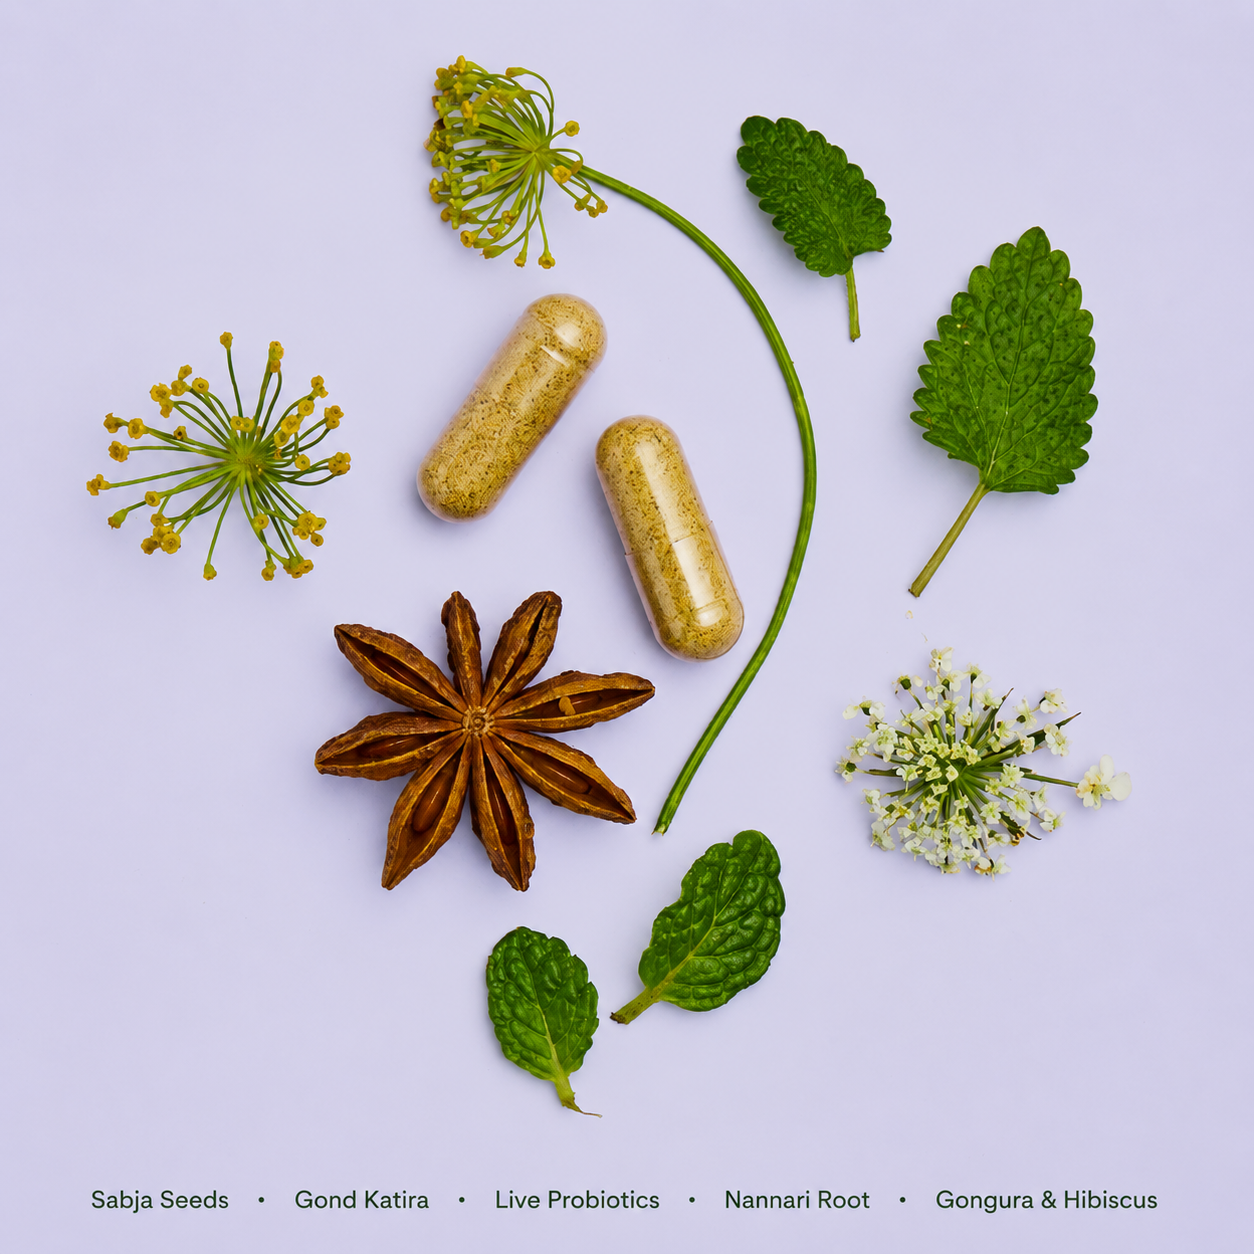
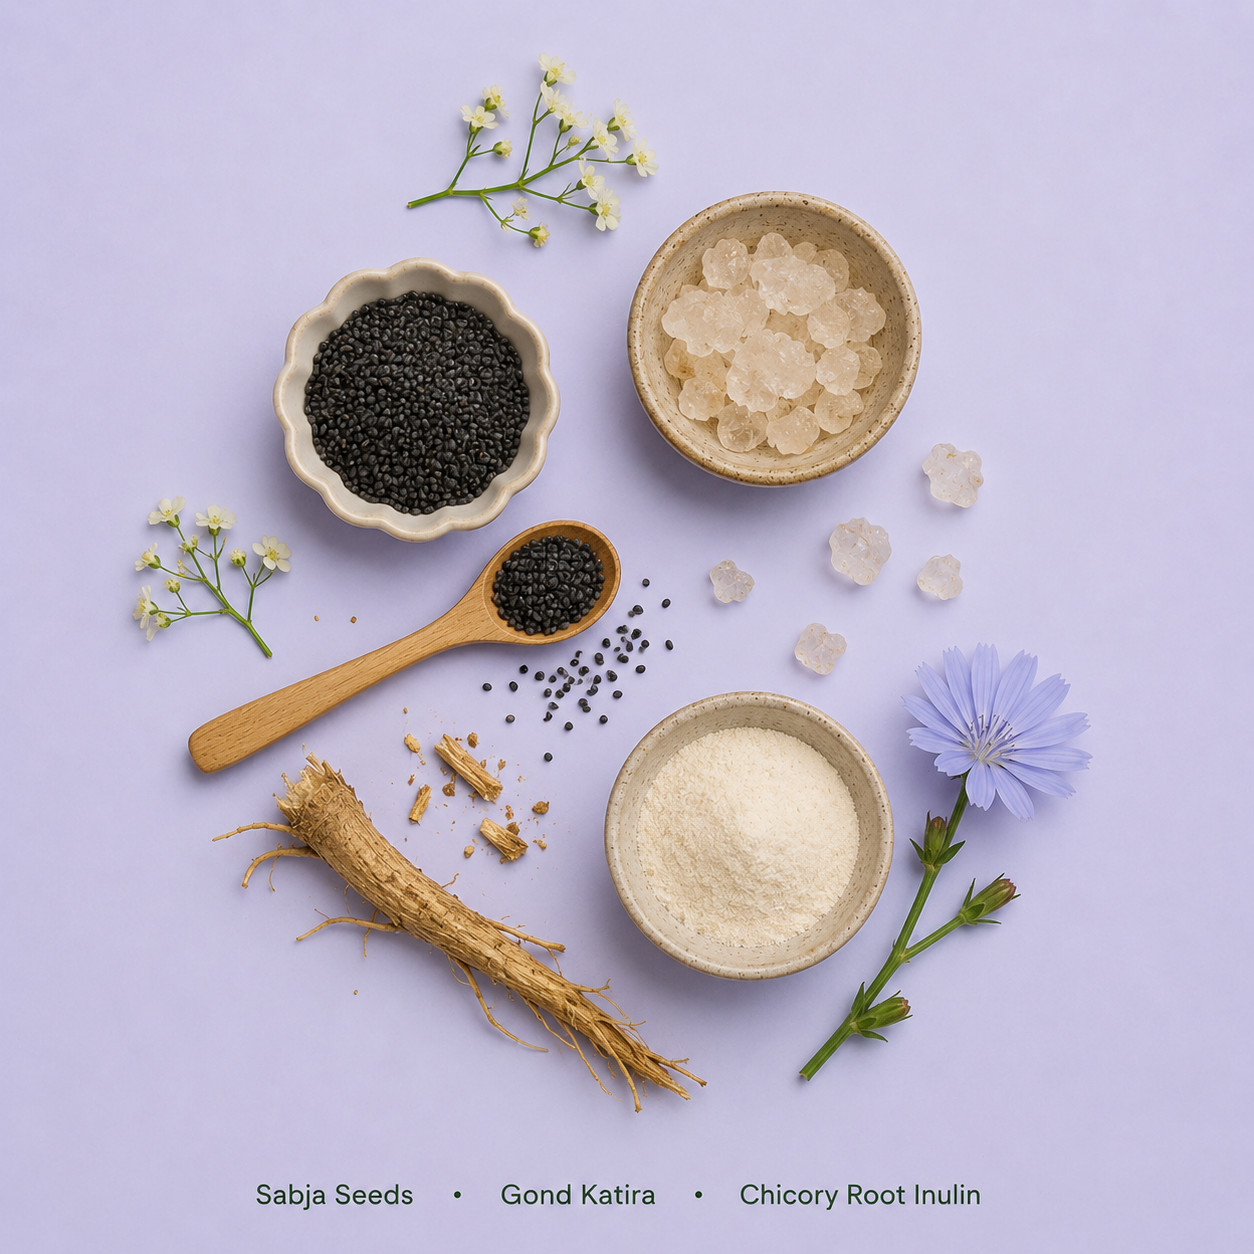
Changed hero section

diff --git a/src/components/HeroSection.tsx b/src/components/HeroSection.tsx
@@ -1,5 +1,5 @@
 import { Link } from "react-router-dom";
-import heroBottle from "@/assets/hero-bottle.png";
+import newHeroImage from "@/assets/new-hero-image.png";
 
 const HeroSection = () => (
   <section className="hero-section">
@@ -35,24 +35,10 @@ const HeroSection = () => (
           </div>
         </div>
 
-        {/* ─── RIGHT: Blob + Bottle ─── */}
+        {/* ─── RIGHT: Hero image ─── */}
         <div className="hero-visual animate-fade-up-delay-2">
-          {/* Gradient blob */}
-          <div
-            aria-hidden="true"
-            className="hero-blob"
-            style={{
-              background: `
-                radial-gradient(circle at 60% 40%, rgba(232, 115, 26, 0.5), transparent 60%),
-                radial-gradient(circle at 40% 60%, rgba(197, 216, 48, 0.45), transparent 55%),
-                radial-gradient(circle at 70% 70%, rgba(220, 60, 60, 0.3), transparent 50%)
-              `,
-              filter: "blur(50px)",
-              transform: "scale(1.1)",
-            }}
-          />
           <img
-            src={heroBottle}
+            src={newHeroImage}
             alt="Quartermelon cold-pressed juice bottle, fresh and natural"
             className="hero-bottle"
           />
@@ -64,27 +50,31 @@ const HeroSection = () => (
     <style>{`
       .hero-section {
         position: relative;
-        min-height: 100svh;
+        min-height: 100vh;
+        box-sizing: border-box;
         overflow: hidden;
-        background-color: #F5F0E8;
+        background-color: #f1e9de;
         font-family: 'PlusJakartaSans', sans-serif;
       }
       .hero-container {
-        max-width: 1400px;
-        margin: 0 auto;
+        width: 100%;
+        max-width: none;
+        margin: 0;
         padding: 0 40px;
-        height: 100%;
-        min-height: 100svh;
+        min-height: 100vh;
+        box-sizing: border-box;
         display: flex;
         align-items: center;
       }
       .hero-grid {
         width: 100%;
+        height: 100%;
         display: grid;
         grid-template-columns: 1fr 1fr;
-        gap: 64px;
+        gap: 32px;
         align-items: center;
-        padding: 96px 0 48px;
+        padding: 80px 0 48px;
+        box-sizing: border-box;
       }
       .hero-text {
         display: flex;
@@ -167,50 +157,59 @@ const HeroSection = () => (
 
       .hero-visual {
         position: relative;
+        max-width: 100%;
+        overflow: hidden;
+        border-radius: 20px;
+        margin-right: 0;
         display: flex;
         align-items: center;
         justify-content: center;
         order: 2;
-        min-height: 420px;
-      }
-      .hero-blob {
-        position: absolute;
-        inset: 0;
-        pointer-events: none;
       }
       .hero-bottle {
-        position: relative;
-        z-index: 10;
-        width: auto;
-        max-height: 95vh;
-        max-width: 100%;
+        display: block;
+        width: 100%;
+        max-height: 480px;
+        height: auto;
         object-fit: contain;
-        transform: rotate(4deg);
-        margin-top: -8vh;
-        filter: drop-shadow(0 24px 48px rgba(0,0,0,0.18));
+        object-position: center;
       }
 
       @media (max-width: 768px) {
+        .hero-section {
+          height: auto;
+          max-height: none;
+        }
         .hero-container {
           padding: 0 20px;
+          height: auto;
+          max-height: none;
         }
         .hero-grid {
           grid-template-columns: 1fr;
           gap: 0;
+          height: auto;
           padding: 88px 0 48px;
         }
         .hero-text {
           order: 2;
         }
         .hero-visual {
-          order: 1;
-          min-height: 300px;
-          margin-bottom: 16px;
-        }
+  order: 1;
+  width: 100%;
+  aspect-ratio: 1 / 1;
+  border-radius: 16px;
+  overflow: hidden;
+  display: block;
+  margin-bottom: 28px;
+}
         .hero-bottle {
-          max-height: 72vw;
-          transform: rotate(2deg);
-          margin-top: 0;
+          width: 100%;
+  height: 100%;
+  object-fit: cover;
+  object-position: center;
+  display: block;
+
         }
         .hero-heading {
           font-size: 2.4rem;

diff --git a/src/components/IngredientsSection.tsx b/src/components/IngredientsSection.tsx
@@ -202,7 +202,7 @@ const IngredientsSection = () => {
           display: flex;
           align-items: center;
           justify-content: center;
-          background: #D4D1E8;
+          background: #cdc7e3;
           border-radius: 24px;
           overflow: hidden;
         }
